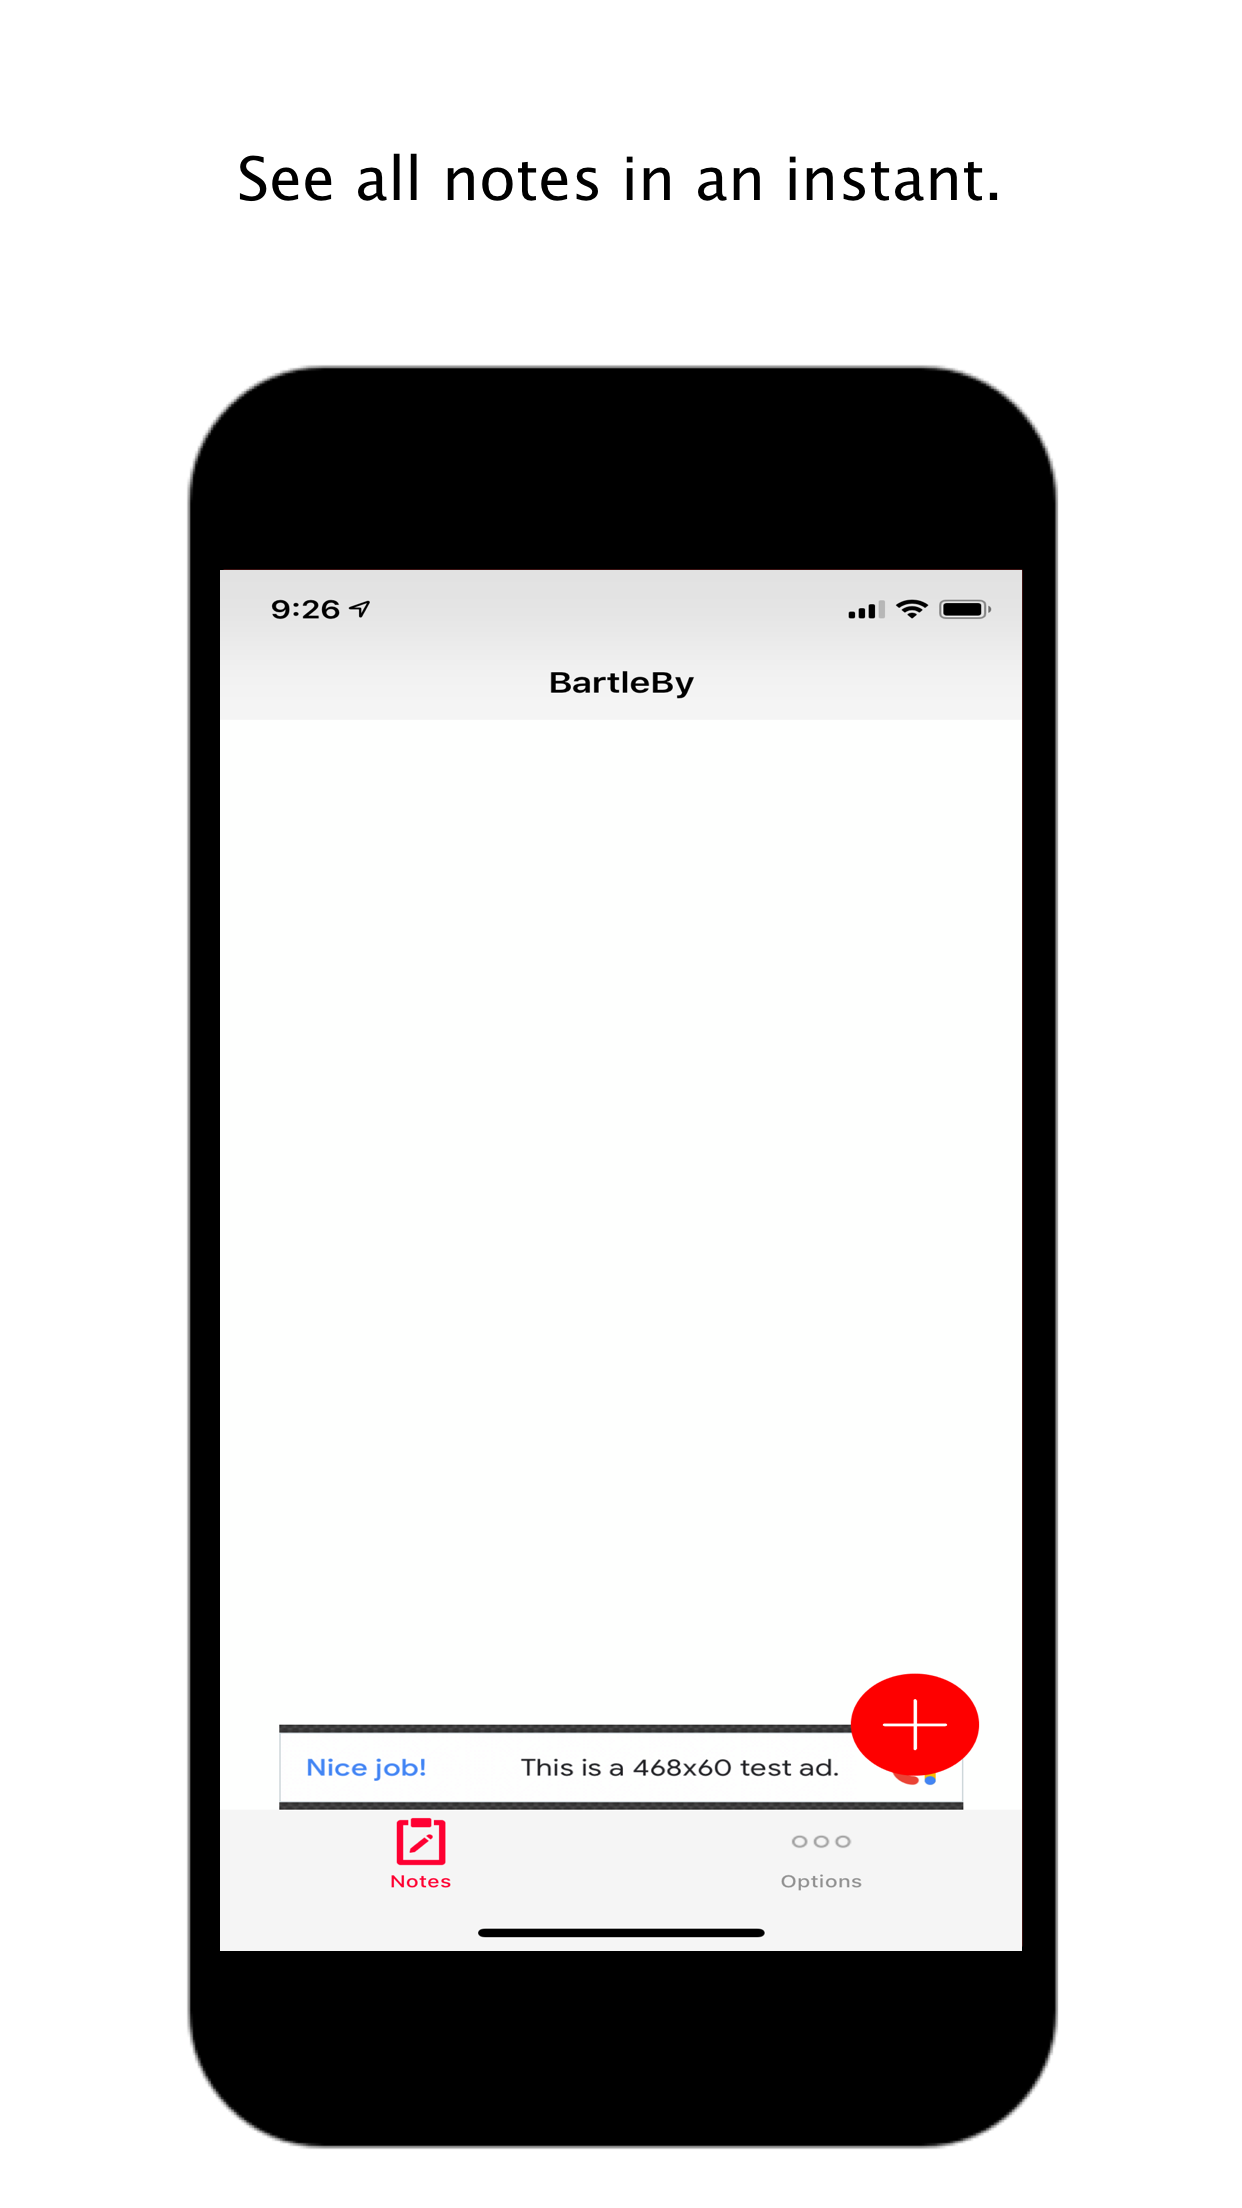
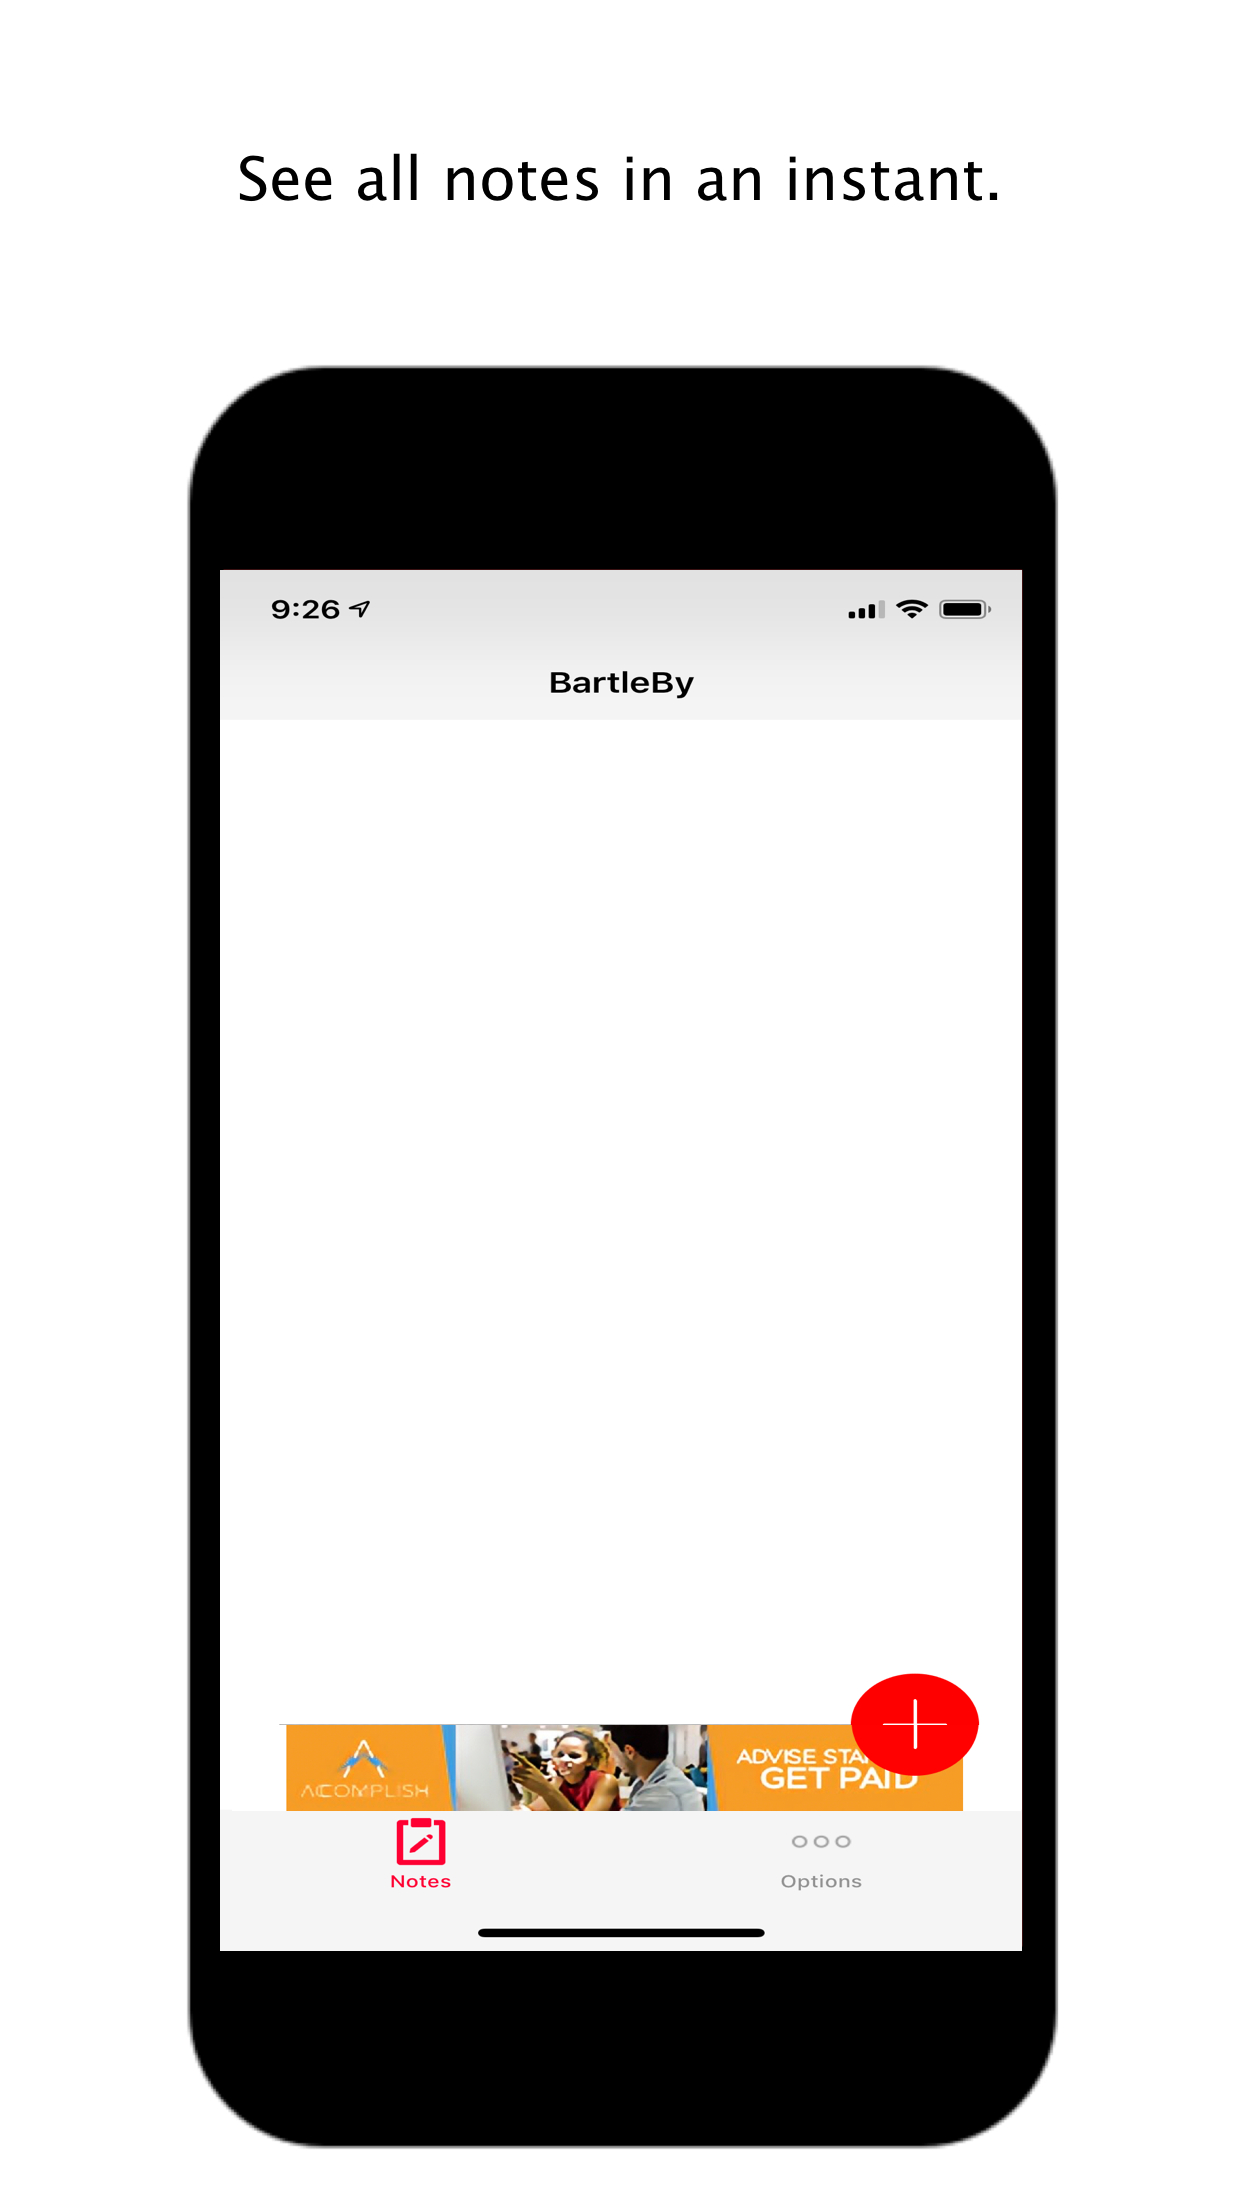
hidden and unhidden pasword textfield + new username

Changed region(s): [[0.2142, 0.7812, 0.7955, 0.8438]]

diff --git a/BartleBy/ViewControllers/Options/EmailLoginViewController.swift b/BartleBy/ViewControllers/Options/EmailLoginViewController.swift
@@ -20,6 +20,7 @@ class EmailLoginViewController: UIViewController {
     private var registerButton: UIButton!
     private var toggleSignInButton: UIButton!
     private var forgotPasswordButtion: UIButton!
+    private var toggleSecureTextButton: UIButton!
     
     private var keyboardHeight = CGFloat(0)
     private var defaultY = CGFloat(0)
@@ -112,6 +113,7 @@ class EmailLoginViewController: UIViewController {
         registerPasswordTextField.borderStyle = .roundedRect
         registerPasswordTextField.placeholder = "Password"
         registerPasswordTextField.keyboardType = .default
+        registerPasswordTextField.isSecureTextEntry = true
         registerPasswordTextField.keyboardAppearance = .dark
         registerPasswordTextField.textAlignment = .center
         registerPasswordTextField.autocapitalizationType = .none
@@ -124,6 +126,19 @@ class EmailLoginViewController: UIViewController {
             make.centerY.equalToSuperview().offset(25)
             make.centerX.equalToSuperview()
             make.left.right.equalToSuperview().inset(40)
+        })
+        
+        toggleSecureTextButton = UIButton()
+        toggleSecureTextButton.setImage(registerPasswordTextField.isSecureTextEntry ? UIImage(named: "secured") : UIImage(named: "unsecured"), for: .normal)
+        toggleSecureTextButton.setTitleColor(.applicationAccentColor, for: .normal)
+        toggleSecureTextButton.tintColor = .applicationAccentColor
+        toggleSecureTextButton.addTarget(self, action: #selector(toggleSecureText), for: .touchUpInside)
+        
+        self.view.addSubview(toggleSecureTextButton)
+        toggleSecureTextButton.snp.makeConstraints({ make in
+            make.right.equalTo(registerPasswordTextField.snp.right).inset(10)
+            make.top.equalTo(registerPasswordTextField.snp.top)
+            make.bottom.equalTo(registerPasswordTextField.snp.bottom)
         })
         
         registerButton = UIButton()
@@ -164,7 +179,6 @@ class EmailLoginViewController: UIViewController {
             make.top.equalTo(registerButton.snp.bottom).offset(20)
             make.centerX.equalToSuperview()
         })
-        
     }
     
     fileprivate func loginUser(email: String, password: String) {
@@ -239,6 +253,11 @@ class EmailLoginViewController: UIViewController {
     @objc func tap() {
         registerEmailTextField.resignFirstResponder()
         registerPasswordTextField.resignFirstResponder()
+    }
+    
+    @objc func toggleSecureText() {
+        registerPasswordTextField.isSecureTextEntry = !registerPasswordTextField.isSecureTextEntry
+        toggleSecureTextButton.setImage(registerPasswordTextField.isSecureTextEntry ? UIImage(named: "secured") : UIImage(named: "unsecured"), for: .normal)
     }
     
     @objc func forgotPasswordTapped() {

diff --git a/BartleBy/Networking /FirebaseNetworkingService.swift b/BartleBy/Networking /FirebaseNetworkingService.swift
@@ -24,11 +24,11 @@ class FirebaseNetworkingService {
     }
     
     static func signUpDefaultUser() {
-        let userID = UIDevice.current.identifierForVendor?.uuidString
+        let userID = Helper.generateUserID()
         UserDefaults.standard.set(userID, forKey: Constants.userId)
         
         //sign up user with default
-        if let userID = userID {
+        if let userID = userID as? String {
             Database.database().reference().child("users/\(userID)/stats/streak").setValue(0)
             Database.database().reference().child("users/\(userID)/stats/totalNotes").setValue(0)
             Database.database().reference().child("users/\(userID)/template/templateNumber").setValue(5)

diff --git a/BartleBy/Extensions/Constants.swift b/BartleBy/Extensions/Constants.swift
@@ -9,7 +9,7 @@
 import UIKit
 
 class Constants {
-    static let inDevelopment = false //PRODUCTION!!! Set to false when shipping 
+    static let inDevelopment = true //PRODUCTION!!! Set to false when shipping
     static var googleAdMobBannerId      = inDevelopment ? Helper.valueForKey(key: "GoogleADMobBannerTestID") : Helper.valueForKey(key: "GoogleADMobBannerID")
     
     static let applicationAccentColor   = UIColor(red: 225/225, green: 0/225, blue: 45/225, alpha: 1.0) /* #FF002D */
